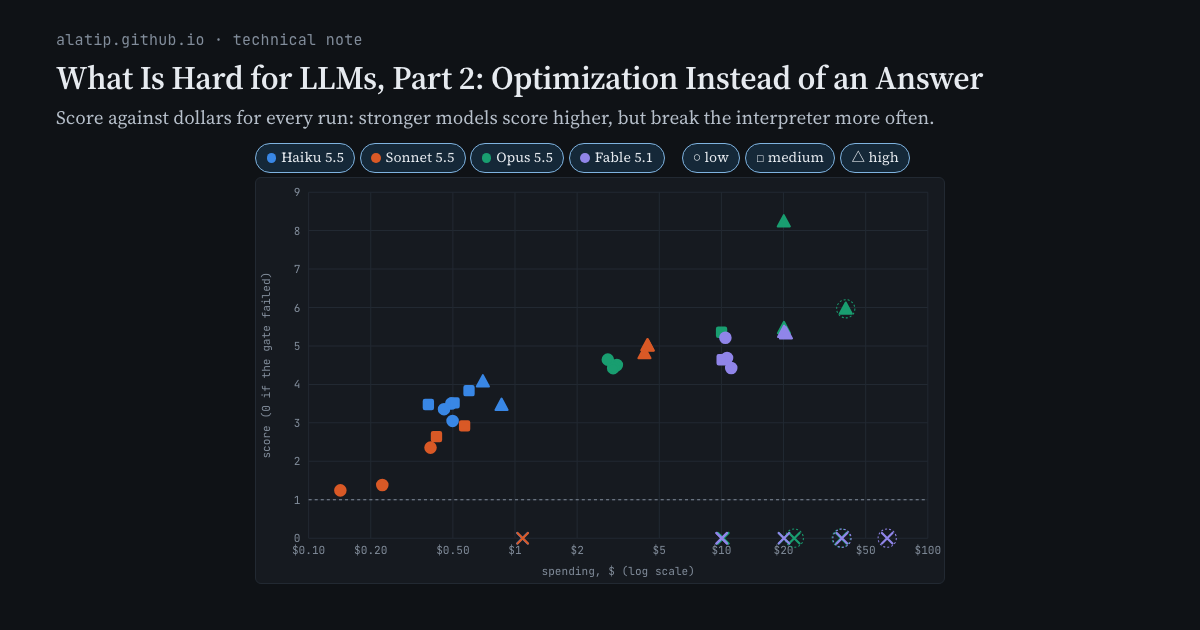
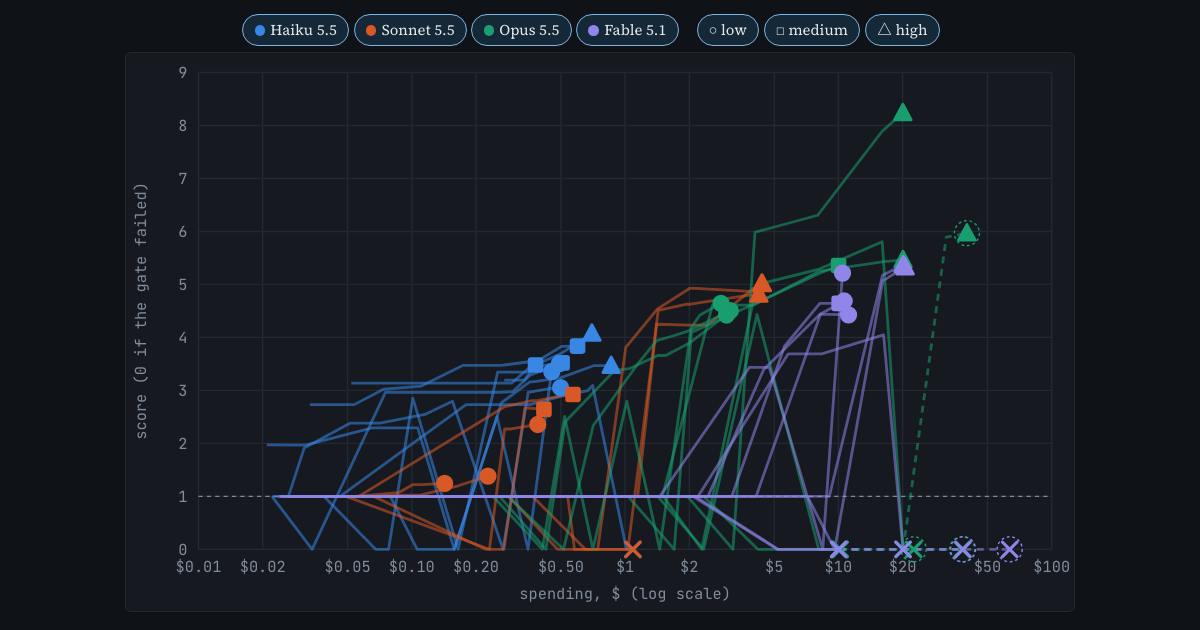
what-is-hard-for-llms-2: social card shows run paths, chart only

diff --git a/what-is-hard-for-llms-2/index.html b/what-is-hard-for-llms-2/index.html
@@ -13,7 +13,7 @@
 <meta property="og:image" content="https://alatip.github.io/what-is-hard-for-llms-2/card.png">
 <meta property="og:image:width" content="1200">
 <meta property="og:image:height" content="630">
-<meta property="og:image:alt" content="Score against dollars for every run of four Claude models on the Quern optimization benchmark">
+<meta property="og:image:alt" content="Score against dollars spent along every run of four Claude models on the Quern optimization benchmark">
 <meta name="twitter:card" content="summary_large_image">
 <meta name="author" content="Aziz Latipov">
 <script type="application/ld+json">{"@context":"https://schema.org","@type":"Article","headline":"What Is Hard for LLMs, Part 2: Optimization Instead of an Answer (Interim Results)","datePublished":"2026-11-06","author":{"@type":"Person","name":"Aziz Latipov"}}</script>
